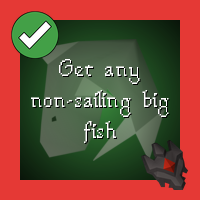
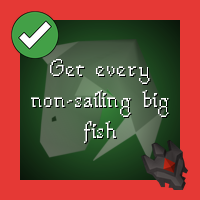
Added single-picture functionnality to script; Awakened the big fish tile

Changed region(s): [[0.24, 0.27, 0.75, 0.45]]

diff --git a/generate_tiles.py b/generate_tiles.py
@@ -5,6 +5,7 @@ import csv
 import os
 import re
 import math
+import sys
 
 # ─── CONFIG ──────────────────────────────────────────────
 CANVAS_SIZE = 200
@@ -48,6 +49,54 @@ NORMAL_COMPLETED_DIR = "tiles_normal_completed"
 
 font = ImageFont.truetype(FONT_PATH, FONT_SIZE)
 
+def parse_row_specs(args):
+    """
+    Parses command-line row specs like:
+      5
+      5 8 10
+      5-9
+      5 8-10 14
+
+    Returns:
+      None if no args were provided (meaning: process all rows)
+      otherwise a set of 1-based data row numbers to process
+    """
+    if not args:
+        return None
+
+    selected = set()
+
+    for arg in args:
+        arg = arg.strip()
+
+        if "-" in arg:
+            parts = arg.split("-", 1)
+            if len(parts) != 2:
+                raise ValueError(f"Invalid row range: {arg}")
+
+            start = int(parts[0])
+            end = int(parts[1])
+
+            if start <= 0 or end <= 0:
+                raise ValueError(f"Row numbers must be >= 1: {arg}")
+
+            if start > end:
+                raise ValueError(f"Range start must be <= end: {arg}")
+
+            selected.update(range(start, end + 1))
+        else:
+            row_num = int(arg)
+            if row_num <= 0:
+                raise ValueError(f"Row numbers must be >= 1: {arg}")
+            selected.add(row_num)
+
+    return selected
+
+def should_process_row(row_index, selected_rows):
+    """
+    row_index is 1-based among data rows (header excluded).
+    """
+    return selected_rows is None or row_index in selected_rows
 
 def ensure_dir(path: str):
     os.makedirs(path, exist_ok=True)
@@ -299,9 +348,20 @@ def save_completed_variant(
 
 def main():
     checkmark = load_checkmark()
-
-    # NEW: preload modifier icons once (faster + cleaner)
     modifier_icons = load_modifier_icons(MODIFIER_BORDER_COLORS.keys())
+
+    # Optional CLI row filter
+    try:
+        selected_rows = parse_row_specs(sys.argv[1:])
+    except ValueError as e:
+        print(f"❌ {e}")
+        print("Usage examples:")
+        print("  python generate_tiles.py")
+        print("  python generate_tiles.py 12")
+        print("  python generate_tiles.py 12 15 18")
+        print("  python generate_tiles.py 12-20")
+        print("  python generate_tiles.py 12 15-18 24")
+        return
 
     with open("tiles.csv", newline="", encoding="utf-8") as f:
         reader = csv.DictReader(f)
@@ -311,28 +371,41 @@ def main():
         if missing:
             raise ValueError(f"tiles.csv missing columns: {sorted(missing)}")
 
-        for row in reader:
+        processed_count = 0
+
+        for row_index, row in enumerate(reader, start=2):
+            if not should_process_row(row_index, selected_rows):
+                continue
+
             filename = build_filename(row["region_id"], row["region_name"], row["position_id"])
 
-            # Normal (no modifier border/icon, black background)
+            print(f"Generating row {row_index}: {filename}")
+
+            # Normal
             tile_normal = make_tile(row, completed=False)
             save_variant(tile_normal, filename, NORMAL_DIR)
 
-            # Normal completed (green background + checkmark)
+            # Normal completed
             tile_completed = make_tile(row, completed=True)
             save_completed_variant(tile_completed, filename, NORMAL_COMPLETED_DIR, checkmark)
 
-            # All modifier variants (modifier controls BORDER + icon)
+            # All modifier variants
             for mod, border_color in MODIFIER_BORDER_COLORS.items():
                 mod_dir = f"tiles_{mod}"
                 mod_completed_dir = f"tiles_{mod}_completed"
-                mod_icon = modifier_icons.get(mod)  # may be None if missing
+                mod_icon = modifier_icons.get(mod)
 
-                # Modified (black background + colored border + modifier icon)
+                # Modified
                 t_mod = make_tile(row, completed=False)
-                save_variant(t_mod, filename, mod_dir, border_color=border_color, modifier_icon=mod_icon)
+                save_variant(
+                    t_mod,
+                    filename,
+                    mod_dir,
+                    border_color=border_color,
+                    modifier_icon=mod_icon
+                )
 
-                # Modified + completed (green background + border + modifier icon + checkmark on top)
+                # Modified + completed
                 t_mod_completed = make_tile(row, completed=True)
                 save_completed_variant(
                     t_mod_completed,
@@ -343,7 +416,12 @@ def main():
                     modifier_icon=mod_icon
                 )
 
-    print("✅ Done. Modifiers => colored border + bottom-right icon. Completion => green background + top-left checkmark.")
+            processed_count += 1
+
+    if selected_rows is None:
+        print(f"✅ Done. Generated all rows ({processed_count} processed).")
+    else:
+        print(f"✅ Done. Generated selected rows only ({processed_count} processed).")
 
 
 if __name__ == "__main__":
